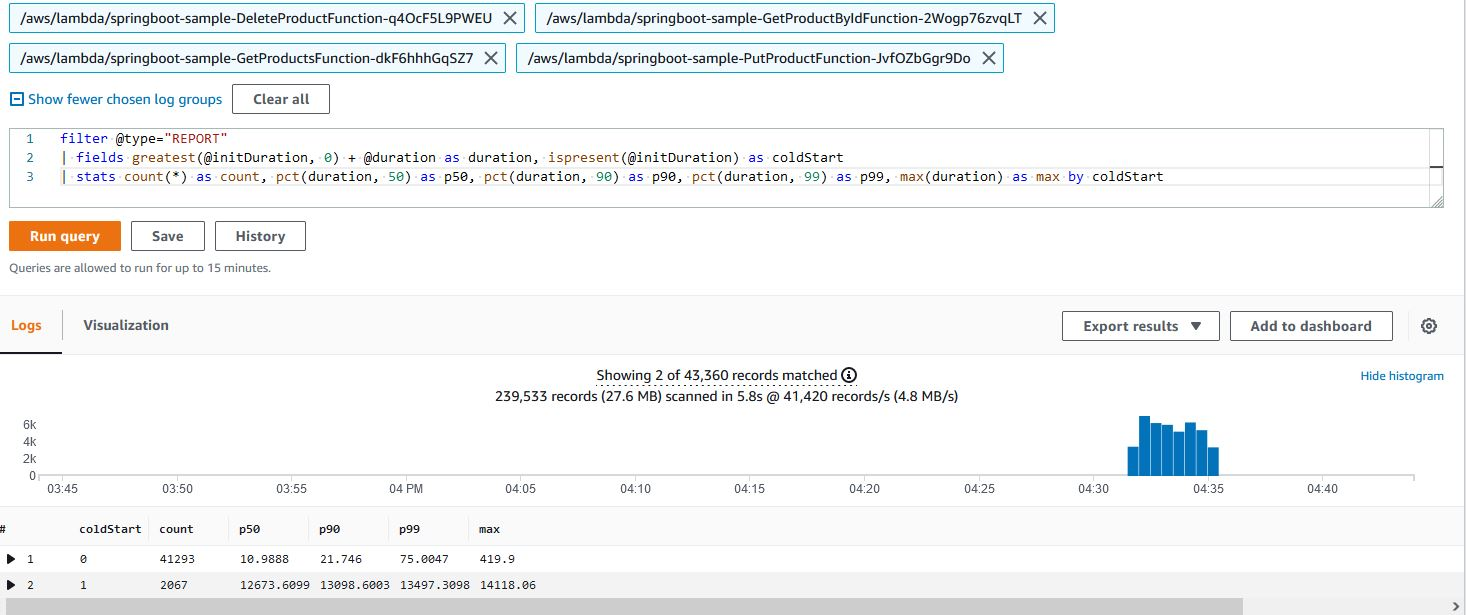
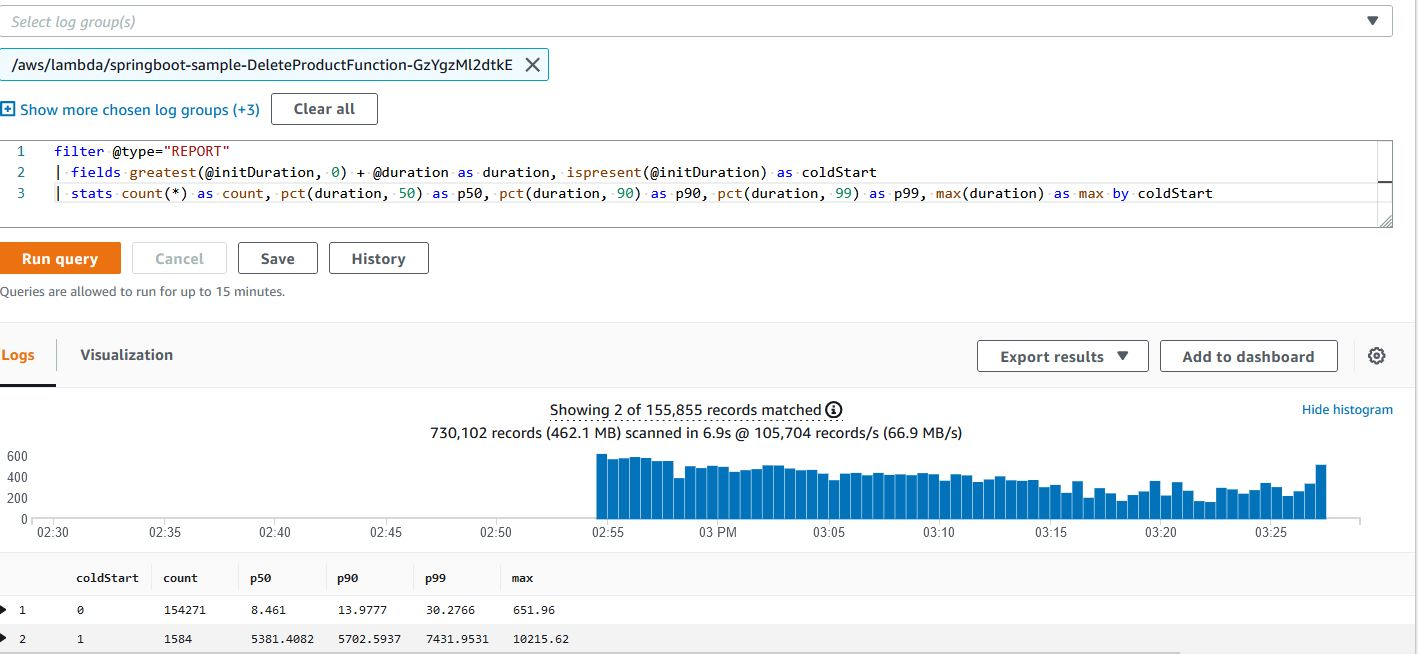
Added Spring Boot SnapStart Example (#16)
* Added SnapStart example for Spring Boot

diff --git a/springboot/src/main/java/software/amazonaws/example/product/product/dao/DynamoProductDao.java b/springboot/src/main/java/software/amazonaws/example/product/product/dao/DynamoProductDao.java
@@ -7,7 +7,6 @@ import com.amazonaws.xray.interceptors.TracingInterceptor;
 import org.slf4j.Logger;
 import org.slf4j.LoggerFactory;
 import org.springframework.stereotype.Component;
-import software.amazon.awssdk.auth.credentials.EnvironmentVariableCredentialsProvider;
 import software.amazon.awssdk.core.SdkSystemSetting;
 import software.amazon.awssdk.core.client.config.ClientOverrideConfiguration;
 import software.amazon.awssdk.regions.Region;
@@ -27,7 +26,6 @@ public class DynamoProductDao implements ProductDao {
   private static final Logger logger = LoggerFactory.getLogger(DynamoProductDao.class);
   private static final String PRODUCT_TABLE_NAME = System.getenv("PRODUCT_TABLE_NAME");
   private final DynamoDbClient dynamoDbClient = DynamoDbClient.builder()
-    .credentialsProvider(EnvironmentVariableCredentialsProvider.create())
     .region(Region.of(System.getenv(SdkSystemSetting.AWS_REGION.environmentVariable())))
     .overrideConfiguration(ClientOverrideConfiguration.builder()
       .addExecutionInterceptor(new TracingInterceptor())
@@ -71,7 +69,6 @@ public class DynamoProductDao implements ProductDao {
       .tableName(PRODUCT_TABLE_NAME)
       .limit(20)
       .build());
-
     logger.info("Scan returned: {} item(s)", scanResponse.count());
 
     List<Product> productList = new ArrayList<>();
@@ -82,4 +79,11 @@ public class DynamoProductDao implements ProductDao {
 
     return new Products(productList);
   }
+
+  public void describeTable() {
+    DescribeTableResponse response = dynamoDbClient.describeTable(DescribeTableRequest.builder()
+      .tableName(PRODUCT_TABLE_NAME)
+      .build());
+  }
+
 }

diff --git a/springboot/src/main/java/software/amazonaws/example/product/product/PrimingResource.java b/springboot/src/main/java/software/amazonaws/example/product/product/PrimingResource.java
@@ -1,0 +1,35 @@
+/**
+ * This code is used to prime the resources in SnapStart example. This file can be excluded if not using SnapStart.
+ * To learn more about SnapStart and Priming, refer to https://aws.amazon.com/blogs/compute/reducing-java-cold-starts-on-aws-lambda-functions-with-snapstart/
+ **/
+
+package software.amazonaws.example.product.product;
+
+import org.crac.Context;
+import org.crac.Core;
+import org.crac.Resource;
+import org.springframework.context.annotation.Configuration;
+import software.amazonaws.example.product.product.dao.DynamoProductDao;
+
+@Configuration
+public class PrimingResource implements Resource {
+
+  private final DynamoProductDao productDao;
+
+  public PrimingResource(DynamoProductDao productDao) {
+    this.productDao = productDao;
+    Core.getGlobalContext().register(this);
+  }
+
+  @Override
+  public void beforeCheckpoint(Context<? extends Resource> context) throws Exception {
+    System.out.println("beforeCheckpoint hook");
+    //Below line would initialize the AWS SDK DynamoDBClient class. This technique is called "Priming".
+    productDao.describeTable();
+  }
+
+  @Override
+  public void afterRestore(Context<? extends Resource> context) throws Exception {
+    System.out.println("afterRestore hook");
+  }
+}

diff --git a/springboot/README.md b/springboot/README.md
@@ -4,7 +4,7 @@
 
 Deploy the demo to your AWS account using [AWS SAM](https://aws.amazon.com/serverless/sam/).
 
-### Option 1: Managed Runtime
+### Option 1: Managed Java Runtime (without SnapStart)
 
 ```bash
 mvn clean package
@@ -13,7 +13,19 @@ sam deploy -g
 SAM will create an output of the API Gateway endpoint URL for future use in our load tests. 
 Make sure the app name used here matches with the `STACK_NAME` present under `load-test/run-load-test.sh`
 
-### Option 2: GraalVM Native Image
+### Option 2: Managed Java Runtime (with SnapStart)
+
+```bash
+mvn clean package
+sam deploy -t template.snapstart.yaml -g
+```
+SAM will create an output of the API Gateway endpoint URL for future use in our load tests.
+Make sure the app name used here matches with the `STACK_NAME` present under `load-test/run-load-test-sanpstart.sh`
+
+The SnapStart version uses a technique called Priming to optimize Lambda initialization time.
+You can learn more about SnapStart and Priming [here](https://aws.amazon.com/blogs/compute/reducing-java-cold-starts-on-aws-lambda-functions-with-snapstart/).
+
+### Option 3: GraalVM Native Image with Custom Runtime
 
 On MacOS:
 ```bash
@@ -74,14 +86,21 @@ cd load-test
 ```bash
 ./run-load-test-native.sh
 ```
+### SnapStart
+> Before running load tests, make sure you update the stack name in [load test bash script](./load-test/run-load-test-sanpstart.sh)
 
+```bash
+./run-load-test-snapstart.sh
+```
 This is a demanding load test, to change the rate alter the `arrivalRate` value in `load-test.yml`.
 
 ## CloudWatch Logs Insights
 
 Using this CloudWatch Logs Insights query you can analyse the latency of the requests made to the Lambda functions.
 
-The query separates cold starts from other requests and then gives you p50, p90 and p99 percentiles.
+The query separates cold starts from other requests and then gives you p50, p90 and p99 percentiles. 
+
+>:warning: Please note that this query is not applicable to SnapStart version. 
 
 ```
 filter @type="REPORT"
@@ -100,8 +119,44 @@ Latency for GraalVM version:
   <img src="../imgs/springboot/springboot-native-log-insights.JPG" alt="GraalVM Version Log Insights"/>
 </p>
 
+Latency for SnapStart version:
+AWS Lambda service logs Restoration time differently when compared to cold start times in CloudWatch logs. 
+For this reason, we need different log insights queries to capture performance metrics for SnapStart functions. 
+Also, it's easy to get Cold Start and Warm Start performance metrics with two different queries rather than one. 
+
+Use the below query to get Cold start metrics for with SnapStart Lambda functions:
+
+```
+filter @message like "REPORT"
+| filter @message not like "RESTORE_REPORT"
+| filter @message like "Restore Duration"
+| parse @message "Restore Duration:* ms" as restoreTime
+| fields @duration + restoreTime as duration
+| stats count(*) as count, pct(duration, 50) as p50, pct(duration, 90) as p90, pct(duration, 99) as p99, max(duration) as max
+```
+
+<p align="center">
+  <img src="../imgs/springboot/springboot-snapstart-cold-log-insights.JPG" alt="Cold Start metrics with SnapStart"/>
+</p>
+
+Use the below query to get Warm start metrics for with SnapStart Lambda functions:
+```
+filter @message like "REPORT"
+| filter @message not like "RESTORE_REPORT"
+| filter @message not like "Restore Duration"
+| fields @duration as duration
+| stats count(*) as count, pct(duration, 50) as p50, pct(duration, 90) as p90, pct(duration, 99) as p99, max(duration) as max
+```
+
+<p align="center">
+  <img src="../imgs/springboot/springboot-snapstart-warm-log-insights.JPG" alt="Cold Start metrics with SnapStart"/>
+</p>
+
 ## AWS X-Ray Tracing
 You can add additional detail to your X-Ray tracing by adding a TracingInterceptor to your AWS SDK clients.
+
+Please note that AWS Lambda SnapStart currently does not support X-ray tracing. For this reason, tracing is disabled for all lambda functions in SnapStart version.
+Lambda SnapStart is available in the US East (Ohio, N. Virginia), US West (Oregon), Asia Pacific (Singapore, Sydney, Tokyo), and Europe (Frankfurt, Ireland, Stockholm) Regions.
 
 Example cold start trace for JVM version:
 

diff --git a/README.md b/README.md
@@ -26,9 +26,10 @@ and the storage logic.
 
 ## Infrastructure
 
-The sample application can be deployed in two different ways:
-1. JVM - This mode uses zip packaging style and runs on the JVM inside the Lambda environment.
-2. Custom Runtime - This mode uses GraalVM native image and uses Custom Runtime to run on Lambda. 
+The sample application can be deployed in three different ways:
+1. Managed Java Runtime (without SnapStart) - This mode uses zip packaging style and runs on the JVM inside the Lambda environment.
+2. Managed Java Runtime (with SnapStart) - This mode enables SnapStart on the Lambda functions. Current examples only include Spring boot version of the application. Stay tuned for other framework examples with SnapStart. Learn more about SnapStart [here](https://docs.aws.amazon.com/lambda/latest/dg/snapstart.html).
+3. Custom Runtime - This mode uses GraalVM native image and uses Custom Runtime to run on Lambda. 
    GraalVM native image is a stand-alone execution binary and does not require a JVM to run.
 
 ## Deployment and Testing
@@ -47,7 +48,7 @@ All latencies listed below are in milliseconds.
 
 [Artillery](https://www.artillery.io/) is used to make **100 requests / second for 10 minutes to our API endpoints**.
 
-### Results from Managed Java Runtime
+### Results from Managed Java Runtime without SnapStart
 
 <table class="table-bordered">
         <tr>
@@ -114,6 +115,39 @@ All latencies listed below are in milliseconds.
 *: Dagger is not fully comparable to other frameworks as it only provides dependency injection, and thus is much lighter than the others, which explains these results.
 When choosing a framework, be conscious of the features available. Dagger was initially done with Android in mind, to provide a lightweight dependency injection framework, without introspection (like Spring). 
 It fits particularly well with Lambda to reduce the initialization time, but does not provide the breadth of the others.
+
+### Results from Managed Java Runtime with SnapStart enabled Lambda functions
+
+<table class="table-bordered">
+        <tr>
+            <th colspan="1" style="horizontal-align : middle;text-align:center;"></th>
+            <th colspan="4" style="horizontal-align : middle;text-align:center;">Cold Start (ms)</th>
+            <th colspan="4" style="horizontal-align : middle;text-align:center;">Warm Start (ms)</th>           
+        </tr>
+        <tr>
+            <th></th>
+            <th scope="col">p50</th>
+            <th scope="col">p90</th>
+            <th scope="col">p99</th>
+            <th scope="col">max</th>
+            <th scope="col">p50</th>
+            <th scope="col">p90</th>
+            <th scope="col">p99</th>
+            <th scope="col">max</th>
+        </tr>        
+        <tr>
+            <th>Spring Boot</th>
+            <td>767.15</td>
+            <td>868.37</td>
+            <td>978.05</td>
+            <td>1271.93</td>
+            <td>8.07</td>
+            <td>13.65</td>
+            <td>28.41</td>
+            <td>226.37</td>
+        </tr>
+</table>
+
 
 ### Results from GraalVM Native images running in custom runtime
 
